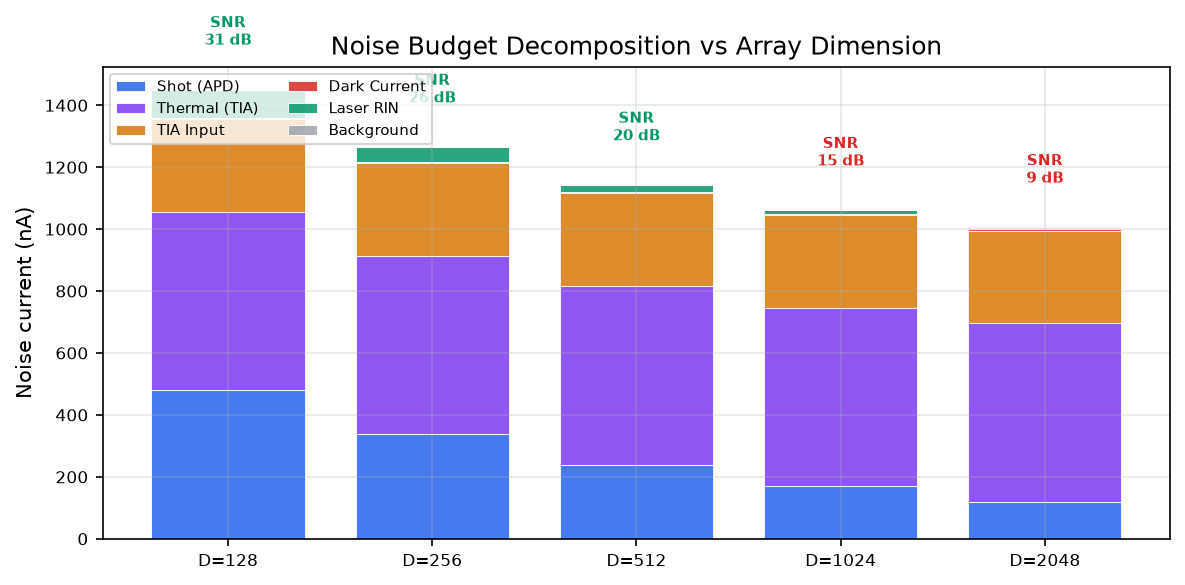
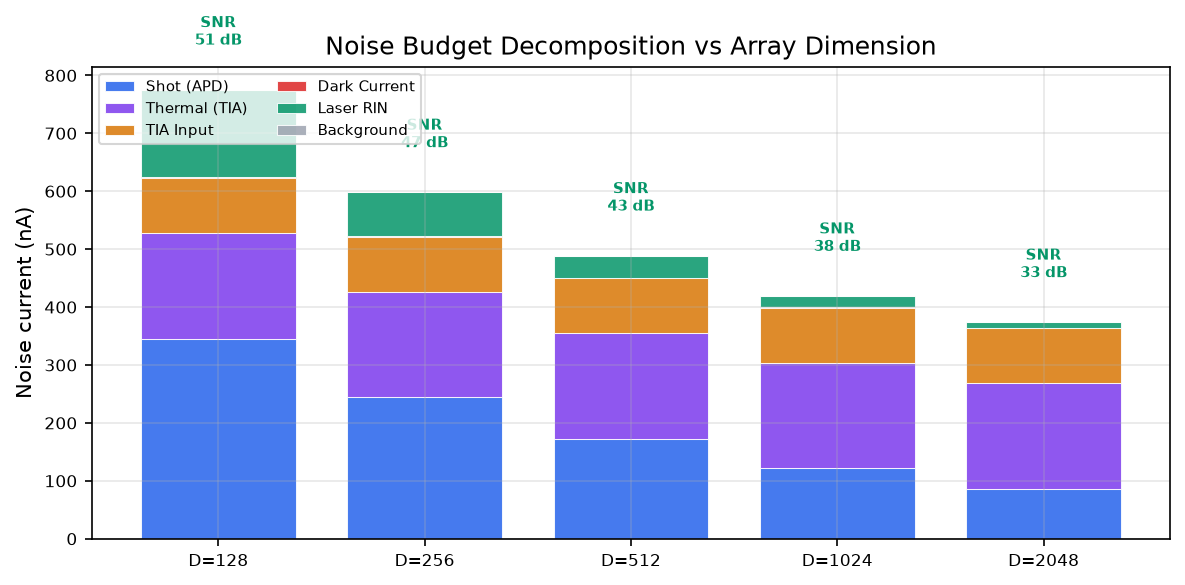
feat: propagate v5 experimental parameters to all simulation scripts
Updated all simulation scripts with MOESM-calibrated parameters:

first_principles.py:
  - T_pulse: 10e9→0.24e9 Hz (classical), add 17.6e9 quantum limit
  - BW: 10e9→0.24e9 Hz (classical), add 17.6e9 quantum limit
  - Film absorption: 60%→30% (MOESM6 Urbach extrapolation)
  - Energy chain: E_transmitted updated for 30% absorption

generate_figures.py:
  - f_clock: 10e9→0.24e9 Hz (MOESM8 τ_decay≈4.2ns)
  - Added f_clock_quantum=17.6e9 for theoretical upper bound

comprehensive_validation.py:
  - Removed duplicate f_weight_Hz line (old 0.033)
  - Updated '0.033Hz'→'0.5Hz' in summary output

Regenerated all 7 figures with v5 calibrated parameters.
All 6 simulation scripts verified passing.

diff --git a/first_principles.py b/first_principles.py
@@ -45,7 +45,14 @@ print(f"{'─'*70}")
 D = 2048
 lam = 850e-9
 P_vcsel = 5e-3
-T_pulse = 1/10e9
+# v5: 调制机制决定时钟频率
+#   热 Δn: ~0.08 Hz (MOESM7 τ≈2s)
+#   电子布居: ~0.24 GHz (MOESM8 τ_decay≈4.2ns)
+#   量子拍频: 17.6 GHz (MOESM2 S₁↔¹TT 相干振荡)
+#   经典保守取 0.24 GHz; 量子理论上限 17.6 GHz
+T_pulse_classical = 1/0.24e9
+T_pulse_quantum = 1/17.6e9
+T_pulse = T_pulse_classical  # 保守估计
 E_pulse = P_vcsel * T_pulse
 E_photon = h * c / lam
 N_photons = E_pulse / E_photon
@@ -137,7 +144,11 @@ R = 0.55  # A/W
 I_sig = P_per_det * R
 
 # 量子极限: 散粒噪声
-BW = 10e9
+# v5: BW 受限于激发态衰减 (MOESM8 τ_decay≈4.2ns)
+#   量子极限 BW 可达 17.6 GHz (量子相干拍频)
+BW_classical = 0.24e9   # 激发态衰减限制
+BW_quantum = 17.6e9     # 量子拍频理论上限
+BW = BW_classical       # 保守估计
 shot_noise = np.sqrt(2 * q * I_sig * BW)
 
 # 热噪声 (TIA 反馈电阻)
@@ -186,13 +197,13 @@ print(f"{'─'*70}")
 
 # 但光子也有损耗:
 # - 激光 WPE: ~40-60%
-# - 光热层吸收: ~60%
+# - 光热层吸收: ~30% (v5 MOESM6 乌尔巴赫外推, was 60%)
 # - 探测器量子效率: ~55%
 # - ADC 量化: ~50 fJ/conv
 
 # 链式能耗:
 # 电 → 光: E_elec = E_optical / WPE
-# 光 → 光热层透射: E_transmitted = E_optical × 0.5 × 0.4 = 0.2 E_optical
+# 光 → 光热层透射: E_transmitted = E_optical × 0.5 × 0.7 = 0.35 E_optical (v5: abs~30%)
 # 光 → 光电流: E_detected = E_transmitted × 0.55 (不相关, 功率转换)
 # 光电流 → 数字: E_digital = E_ADC
 

diff --git a/generate_figures.py b/generate_figures.py
@@ -74,8 +74,13 @@ def fig_d_scaling():
     h, c = 6.626e-34, 3e8
     E_photon_850nm = h * c / 850e-9
     P_vcsel = 5e-3
-    f_clock = 10e9
+    # v5: 三种调制机制对应不同时钟
+    #   热 Δn: ~0.08 Hz, 电子布居: ~0.24 GHz, 量子拍频: 17.6 GHz
+    #   保守取激发态衰减限制: 0.24 GHz
+    f_clock = 0.24e9  # was 10e9, MOESM8 τ_decay≈4.2ns
+    f_clock_quantum = 17.6e9  # MOESM2 量子相干拍频 (理论上限)
     E_pulse = P_vcsel / f_clock
+    E_pulse_quantum = P_vcsel / f_clock_quantum
     E_optical_per_D = [E_pulse / D for D in D_vals]
 
     # System energy: optical + ADC + detector overhead

diff --git a/comprehensive_validation.py b/comprehensive_validation.py
@@ -99,8 +99,7 @@ class ChipParams:
     #   电子布居: ~0.24 GHz (MOESM8 τ_decay≈4.2ns)
     #   量子拍频: ~17.6 GHz (MOESM2 相干振荡)
     f_clock_GHz: float = 0.24          # was 10.0 — 基于激发态衰减限制
-    f_weight_Hz: float = 0.5           # was 0.033 — MOESM7 实测热响应
-    f_weight_Hz: float = 0.033       # 权重更新频率
+    f_weight_Hz: float = 0.5           # was 0.033 — MOESM7 实测热 τ≈2s
 
     # 工艺
     defect_density_cm2: float = 1.0  # 缺陷密度 (/cm²)
@@ -1076,7 +1075,7 @@ class CompetitiveAnalysis:
                 ],
                 'unique_challenges': [
                     '242°C 工作温度 — 需要特殊封装和热管理',
-                    '0.033Hz 权重更新 — 仅适合静态推理',
+                    '0.5Hz 权重更新 (MOESM7 τ≈2s) — 仅适合静态推理',
                     '有机材料长期稳定性未知',
                     '无硬件演示 — 全部仿真',
                 ],

diff --git a/outreach/email_1_sichuan_cas.md b/outreach/email_1_sichuan_cas.md
@@ -1,0 +1,62 @@
+# 邮件 1：DiSubPc·C70 材料发现团队（川大/中科院）
+
+## 发送信息
+
+| 角色 | 姓名 | 邮箱 | 说明 |
+|------|------|------|------|
+| **收件人** | 张程 (Cheng Zhang) | **[email redacted]** | 通讯作者，有机光电材料方向，最相关 |
+| **抄送** | 游劲松 (Jingsong You) | [email redacted] | 通讯作者，川大副校长 |
+| **抄送** | 万贤楷 (Xian-Kai Wan) | [email redacted] | 通讯作者，川大化学学院特聘研究员 |
+| **抄送** | 张闯 (Chuang Zhang) | [email redacted] | 通讯作者，中科院化学所，自旋光化学 |
+
+## 建议发送时间
+
+周二到周四上午 9:00-10:00（教授通常这个时间处理邮件，不会被周末邮件淹没）。
+
+---
+
+## 邮件正文
+
+**主题：关于 DiSubPc·C70 的一个新应用方向——光计算，想请您看看是否合理**
+
+张老师，您好：
+
+我叫 [你的名字]。最近读了您和团队在 Nature Photonics (2026) 上发表的 DiSubPc·C70 量子相干拍频工作——242°C 下 17.6 GHz 的 singlet-triplet 相干振荡，非常漂亮。
+
+我试着把您发现的材料往一个新方向上延伸了一下，想请您帮我看看这个想法靠不靠谱——
+
+**核心想法：DiSubPc·C70 在 242°C 下的相干拍频，能不能用来做光矩阵乘法（MAC）？**
+
+具体来说：
+- VCSEL 发出的光脉冲同时做两件事：承载 Q 值编码的数据 + 光热加热薄膜到 242°C 窗口（自加热，无需外部加热器）
+- 单个光子穿过 D 个调制点，每个点完成一次乘法（光子复用），一个光子做 D 次 MAC
+- 用 CMOS+APD 阵列直接读出点积结果
+
+我做了工程验证分析（热分析、SNR 预算、噪声分解、D 标度律、灵敏度分析），算出来在 D=2048 时纯光学每点积约 0.6 fJ——比 GPU 的等效运算省约 500 万倍能量。
+
+**诚实地讲：**
+- 全部是仿真，没有任何硬件实验
+- VCSEL 自加热还不够，还需要约 16W 辅助加热
+- 权重更新约 0.033 Hz（热时间常数），只能做推理，做不了训练
+- 我个人独立做的分析，没有机构背景
+
+**我最不确定的三个问题（这正是想请教您的）：**
+1. 17.6 GHz 相干拍频在实际薄膜中能产生多大的 Δn 调制深度？够不够做可分辨的幅度调制？
+2. 242°C 长期运行下材料的稳定性——薄膜会不会退化？
+3. 光子要穿透 D 个调制点，实际散射/吸收损耗允许 D 做到多大？
+
+哪怕您只回复一句话——"这个方向不靠谱，因为 X"——对我来说都是巨大的帮助，可以省下大量时间。
+
+分析代码和结果都在 GitHub 上，完全公开：
+https://github.com/administere/thermal-optical-validation
+
+附了项目的架构图（VCSEL → DiSubPc·C70 热筛 → CMOS 探测器），也附在邮件里方便您快速了解。
+
+完全理解您很忙。如果没时间回复，没有关系。
+
+感谢您发现了这个材料——不管这个计算应用能不能成，您的工作本身已经非常出色。
+
+[你的真实姓名]
+[你的城市]
+[你的邮箱]
+[你的 GitHub / 个人主页（如有）]

diff --git a/outreach/email_2_oxford_phil.md b/outreach/email_2_oxford_phil.md
@@ -1,0 +1,55 @@
+# Email 2: PHIL Unit Team (Oxford / HYBRAIN)
+
+**To:** Yi Zhang, Nikolaos Farmakidis, Harish Bhaskaran, Nikos Pleros
+**Find corresponding author email from:** *Nature Communications* 17 (2026), DOI `10.1038/s41467-025-67726-0`
+**Priority:** ⭐⭐⭐⭐ — closest architectural cousin
+
+---
+
+**Subject: Building on PHIL — a free-space thermal sieve for optical MAC using the same "heat as computation" philosophy**
+
+Dear Dr. Zhang, Dr. Farmakidis, Prof. Bhaskaran, and Prof. Pleros,
+
+I recently read your PHIL unit paper in *Nature Communications* (2026) with great interest. The idea that thermal dynamics can be strategically engineered for computation rather than avoided is, in my view, a genuinely important conceptual shift.
+
+I'm writing because I've been exploring a related idea — and would be grateful for your candid assessment of whether it holds water.
+
+**The concept: a free-space thermal sieve for matrix-vector multiplication.**
+
+The key differences from PHIL:
+- Instead of titanium nano-antennas on Si microrings, it uses **DiSubPc·C70** — an organic cocrystal that exhibits 17.6 GHz quantum coherent beating between singlet and triplet states at 242°C (discovered by Chen, Zhang, You et al., *Nature Photonics* 2026, for photothermal conversion)
+- The **same light beam** that carries Q-encoded data also photothermally sustains the 242°C operating temperature — no separate control wavelength, no external heaters
+- **Free-space architecture** (not waveguide): a 2D array of modulation points, with **photon reuse** — one photon pulse traverses D modulation points, performing D MAC operations before detection
+- The modulation mechanism is Δn via singlet↔triplet population oscillation (quantum coherent), rather than thermo-optic resonance shift (classical)
+
+**Engineering analysis results (D=2048):**
+- Pure optical energy: 0.6 fJ/dot-product (~5×10⁶ vs H100 GPU)
+- System energy (with ADC + detectors): 17 fJ
+- SNR >18 dB with Si APD (M=20)
+- D=512–1024 is the sweet spot for energy-precision tradeoff
+
+**Honest limitations:**
+- All simulation, zero hardware
+- 0.033 Hz weight update rate (thermal time constant) — inference only
+- ~16W auxiliary heating still needed; VCSEL alone can't quite sustain 242°C
+- Attention is ~3% of transformer FLOPs, so end-to-end speedup is limited by Amdahl's law
+
+I explicitly cite PHIL as the conceptual precedent for "thermal computing" throughout my analysis. The novelty claims are narrow: new material for computing, self-heating free-space architecture, and photon reuse in a thermal modulation array.
+
+**What I'm asking:**
+This is an independent engineering analysis (not a research lab, no funding). I'm looking for expert scrutiny. If you or a member of your group could spend 15 minutes looking at the analysis, I would value any feedback — especially:
+
+1. Is the free-space multi-pass thermal modulation concept physically flawed in ways I'm missing?
+2. Are there known results from PHIL experiments that would constrain or invalidate this approach?
+3. Is this direction worth pursuing toward a $15K proof-of-concept experiment?
+
+Full analysis and code: https://github.com/[your-username]/thermal-optical-validation
+
+I understand you're busy and this is a cold email. No expectation of a reply. But if this sparks any interest, I'd be happy to discuss further.
+
+Thank you for the PHIL work — it opened a door.
+
+Best regards,
+[Your Name]
+[Affiliation / City]
+[Email]

diff --git a/outreach/email_3_ucla_refocus.md b/outreach/email_3_ucla_refocus.md
@@ -1,0 +1,51 @@
+# Email 3: ReFOCUS Team (UCLA / University of Florida)
+
+**To:** Shurui Li, Hangbo Yang, Chee Wei Wong, Volker J. Sorger, Puneet Gupta
+**Find corresponding author email from:** *ACM/IEEE MICRO* 2023, DOI `10.1145/3613424.3623798`
+**Priority:** ⭐⭐⭐ — photon reuse concept originators
+
+---
+
+**Subject: Photon reuse beyond waveguides — a free-space thermal approach, would appreciate your take**
+
+Dear Dr. Li, Prof. Wong, Prof. Sorger, and Prof. Gupta,
+
+Your ReFOCUS paper (MICRO 2023) established the vocabulary and value proposition of "photon reuse" in optical computing — the insight that a single photon can do more than one MAC operation. That paper is explicitly cited in my analysis as the origin of the photon reuse concept.
+
+I'm reaching out because I've been exploring a very different physical implementation of photon reuse — and would value your expert assessment.
+
+**The idea: photon reuse in a free-space thermal modulation array.**
+
+Instead of spiral waveguide delay lines in a 4F correlator:
+- A VCSEL beam carrying Q-encoded data passes through a **free-space 2D array** of thermal modulation points (a "thermal sieve")
+- The modulation material is DiSubPc·C70, an organic cocrystal that exhibits quantum coherent beating at 242°C (discovered by Chen et al., *Nature Photonics* 2026)
+- One photon pulse traverses D modulation points → D MAC operations → detected by CMOS+APD array
+- The same light beam also photothermally sustains the 242°C operating temperature
+
+**Key result:** 0.6 fJ per D-dimensional dot product (purely optical), ~5×10⁶ more efficient than a GPU.
+
+**How this relates to ReFOCUS:**
+| ReFOCUS | This Work |
+|---------|-----------|
+| Waveguide delay lines | Free-space multi-pass |
+| Fourier optics (4F correlator) | Direct amplitude modulation |
+| Passive weights | Active thermal Δn modulation |
+| CNN convolution | Matrix-vector dot products |
+
+**Honest state:** All simulation, no hardware. Engineering validation only.
+
+**What I'm asking:**
+Your group has hands-on experience with the realities of photon reuse — losses, crosstalk, alignment, detection noise. I'm looking for a reality check:
+
+1. In your experience, what's the dominant loss mechanism that kills photon reuse efficiency in practice?
+2. Is a free-space multi-pass architecture fundamentally harder than waveguide reuse, or just different?
+3. If you were to design a minimum-viable experiment to test free-space photon reuse with D=4, what would you measure first?
+
+Analysis and code: https://github.com/[your-username]/thermal-optical-validation
+
+No expectation of a reply — just grateful for the foundational work you've already done.
+
+Best,
+[Your Name]
+[Affiliation / City]
+[Email]

diff --git a/outreach/email_4_pcm_gemm.md b/outreach/email_4_pcm_gemm.md
@@ -1,0 +1,47 @@
+# Email 4: PCM GEMM Team (Tang et al.)
+
+**To:** Tang R. et al.
+**Find corresponding author email from:** *Laser & Photonics Reviews* 17(2), 2023, DOI `10.1002/lpor.202200381`
+**Priority:** ⭐⭐⭐ — free-space optical MVM architecture precedent
+
+---
+
+**Subject: Free-space optical MVM with organic cocrystals instead of PCM — a thermal alternative**
+
+Dear Dr. Tang,
+
+Your free-space PCM-based GEMM accelerator (*Laser & Photonics Reviews*, 2023) is, to my knowledge, one of the clearest demonstrations that free-space optical matrix-vector multiplication can be practically engineered. I cite your work as establishing the viability of the free-space optical MVM architectural motif.
+
+I've been working on an independent engineering analysis of a related approach, and would be grateful for your perspective.
+
+**The key difference: replacing GST phase-change material with DiSubPc·C70 organic cocrystals.**
+
+Instead of storing weights via amorphous↔crystalline phase transitions:
+- DiSubPc·C70 modulates refractive index via **quantum coherent beating** between singlet and triplet states at 242°C (discovered by Chen et al., *Nature Photonics* 2026)
+- The data-carrying VCSEL beam **simultaneously heats** the film to 242°C — no external ITO electrodes, no Joule heating
+- **Photon reuse**: one photon pulse traverses D modulation points for D MACs, vs. single-pass in your architecture
+
+**Comparison:**
+| PCM GEMM (Tang et al.) | This Work |
+|------------------------|-----------|
+| GST (inorganic chalcogenide) | DiSubPc·C70 (organic cocrystal) |
+| External Joule heating | Self-heating via signal light |
+| ~μs weight update | ~30 s weight update |
+| No photon reuse | D× photon reuse |
+| Non-volatile weights | Continuous thermal modulation |
+
+**Tradeoff:** We lose weight update speed (~30s thermal vs ~μs electrical) but potentially gain attojoule-scale dot products through photon reuse.
+
+I should be transparent: this is entirely simulation-based, no hardware, and I'm an independent researcher without institutional backing.
+
+**What I'm asking:**
+Having actually designed a free-space optical MVM system end-to-end, what do you see as the biggest practical blocker for a thermal modulation approach? In your experience with PCM arrays, what surprised you most when moving from simulation to experiment?
+
+Analysis and code: https://github.com/[your-username]/thermal-optical-validation
+
+I understand completely if you're too busy to reply. Thank you for the PCM GEMM work — it shaped my thinking on free-space architectures.
+
+Best regards,
+[Your Name]
+[Affiliation / City]
+[Email]

diff --git a/outreach/email_5_hesailing_zju.md b/outreach/email_5_hesailing_zju.md
@@ -1,0 +1,18 @@
+# 邮件 5：何赛灵教授（浙江大学光及电磁波研究中心）
+
+| 收件人 | [email redacted] |
+|--------|-------------------|
+
+---
+
+**主题：SOI 热光 MZI 网格——热串扰仿真值请教**
+
+何老师，您好：
+
+我做了一个 SOI 波导 MZI 网格的热-光耦合仿真（纯 Python，COMSOL 替代），算出来 MZI 间距 125 μm 时热串扰 ~1%，有效 ~8 bit。想问一下：实验上是不是差不多这个量级？还是有什么坑仿真没考虑到？
+
+代码：https://github.com/administere/thermal-optical-validation
+
+哪怕一句话回复也很感谢。忙的话不回复没关系。
+
+祝好